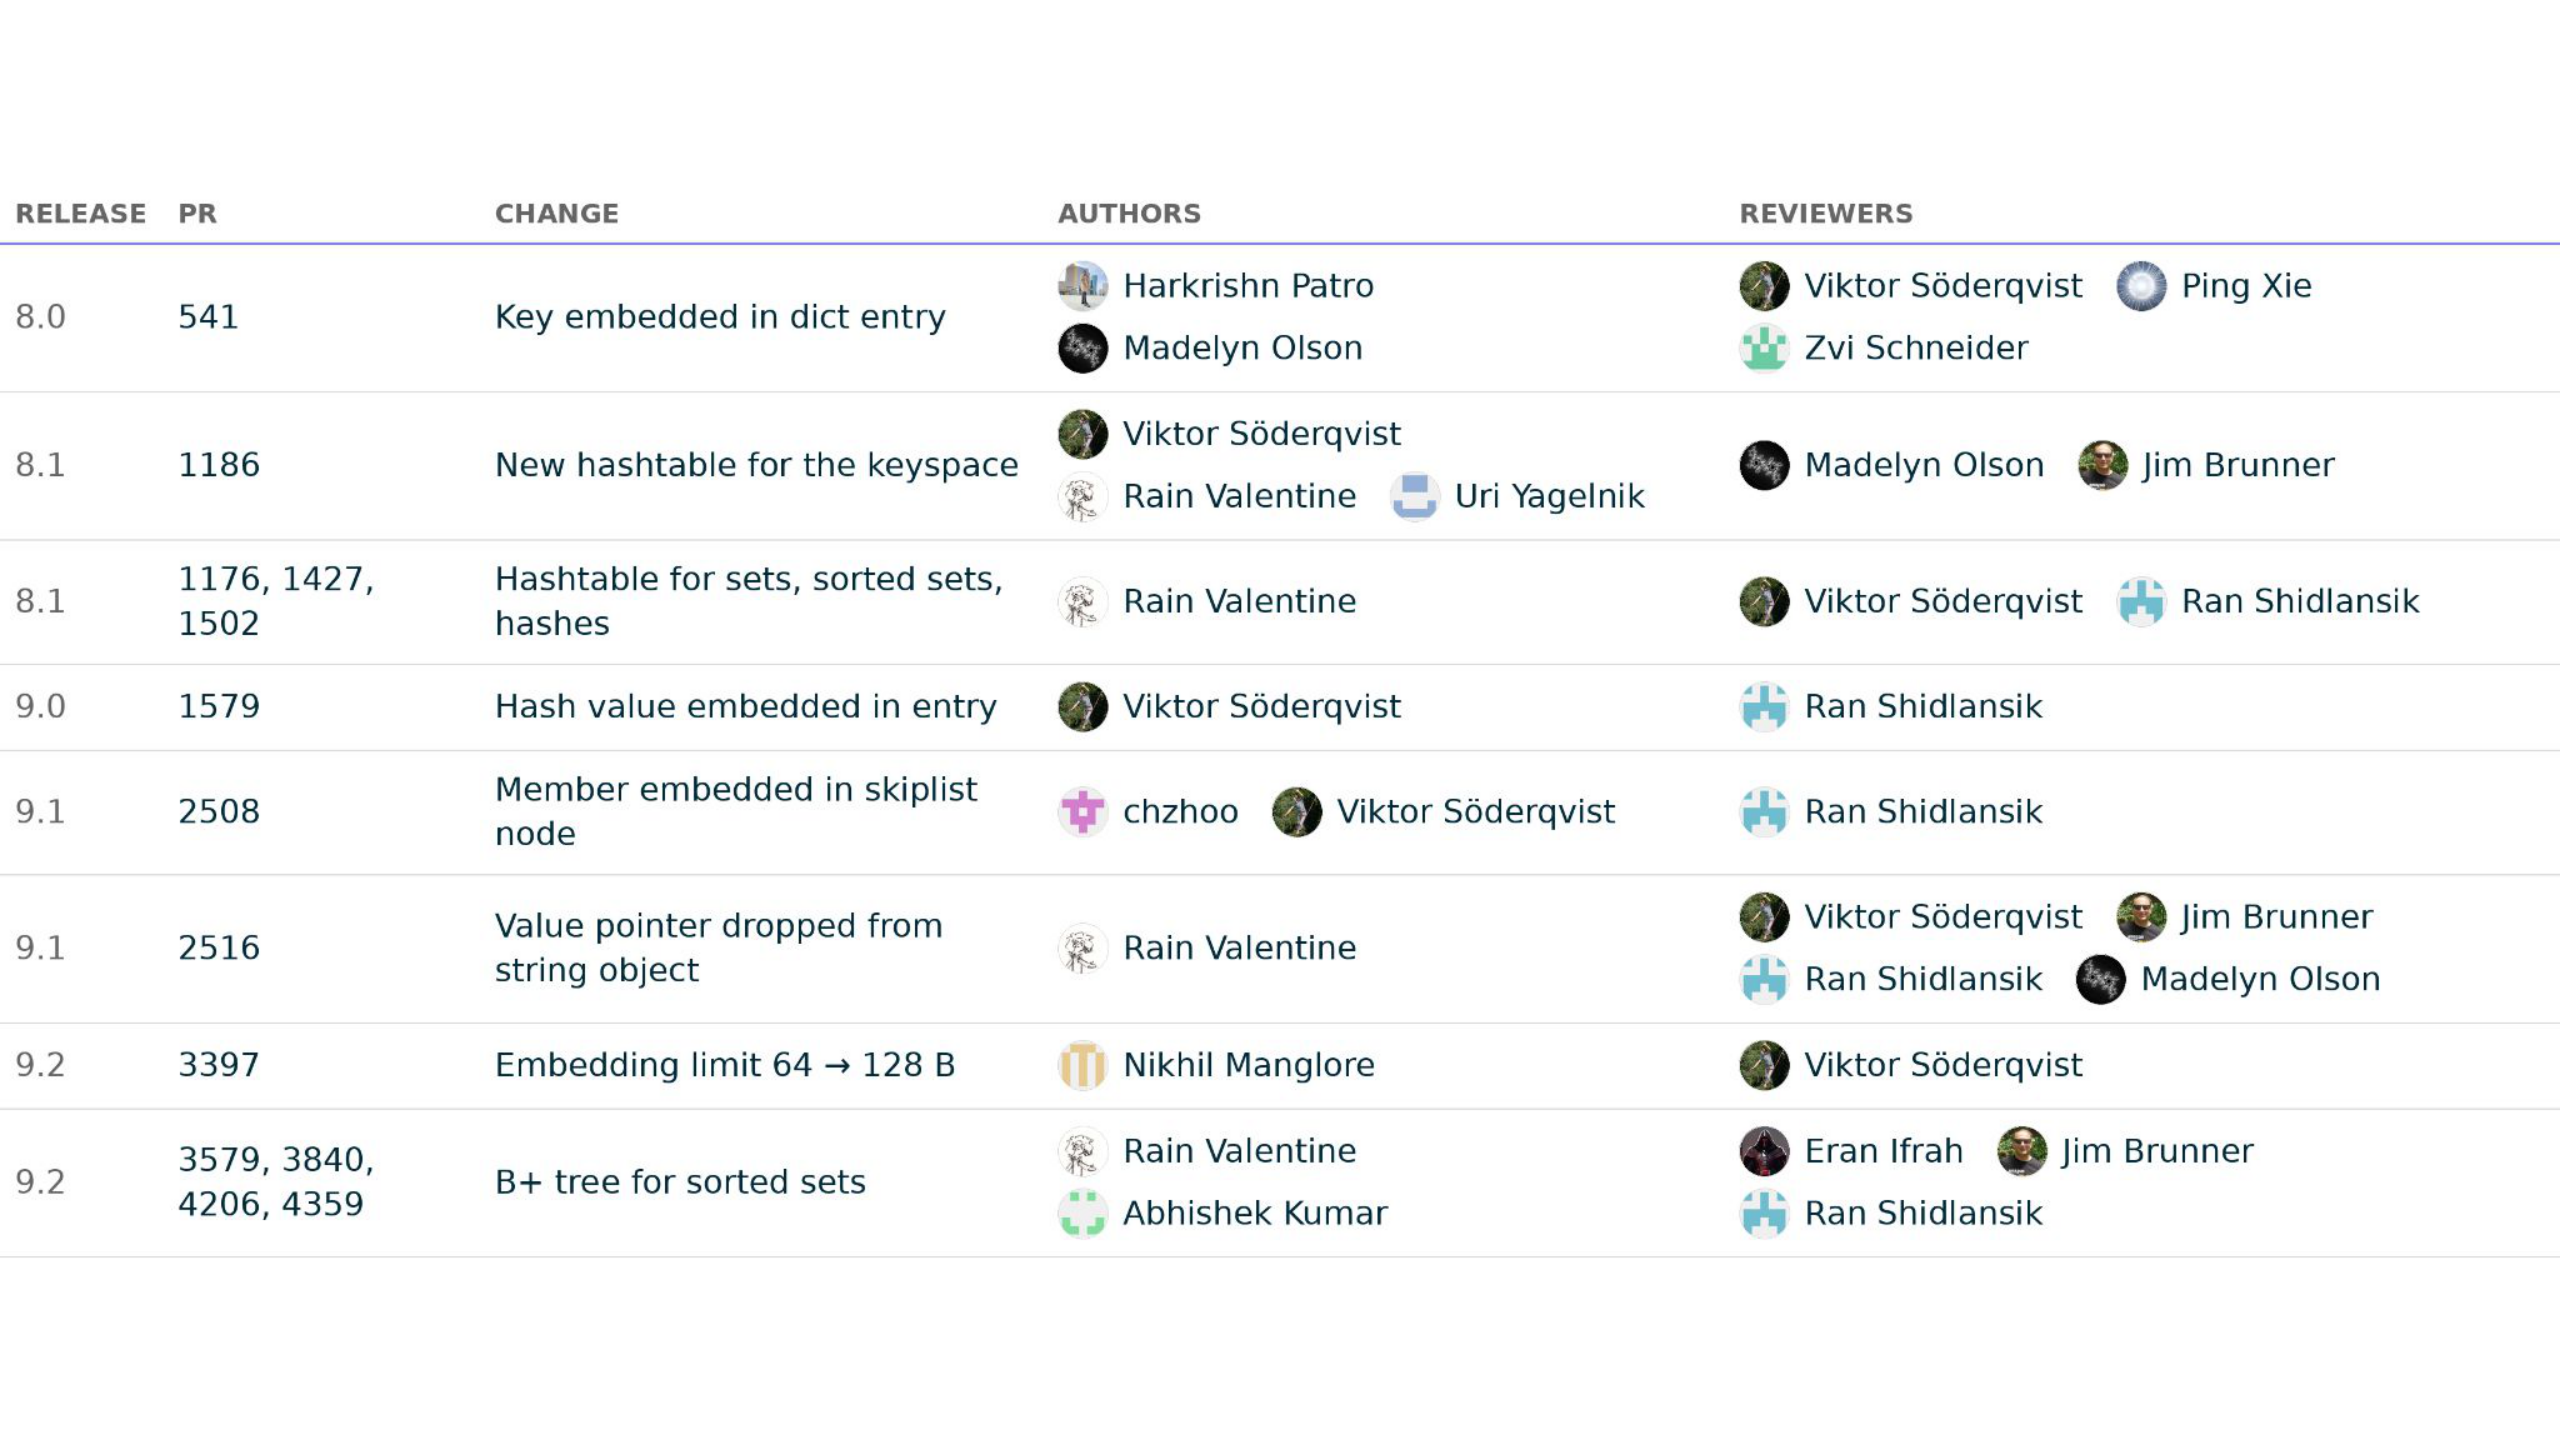
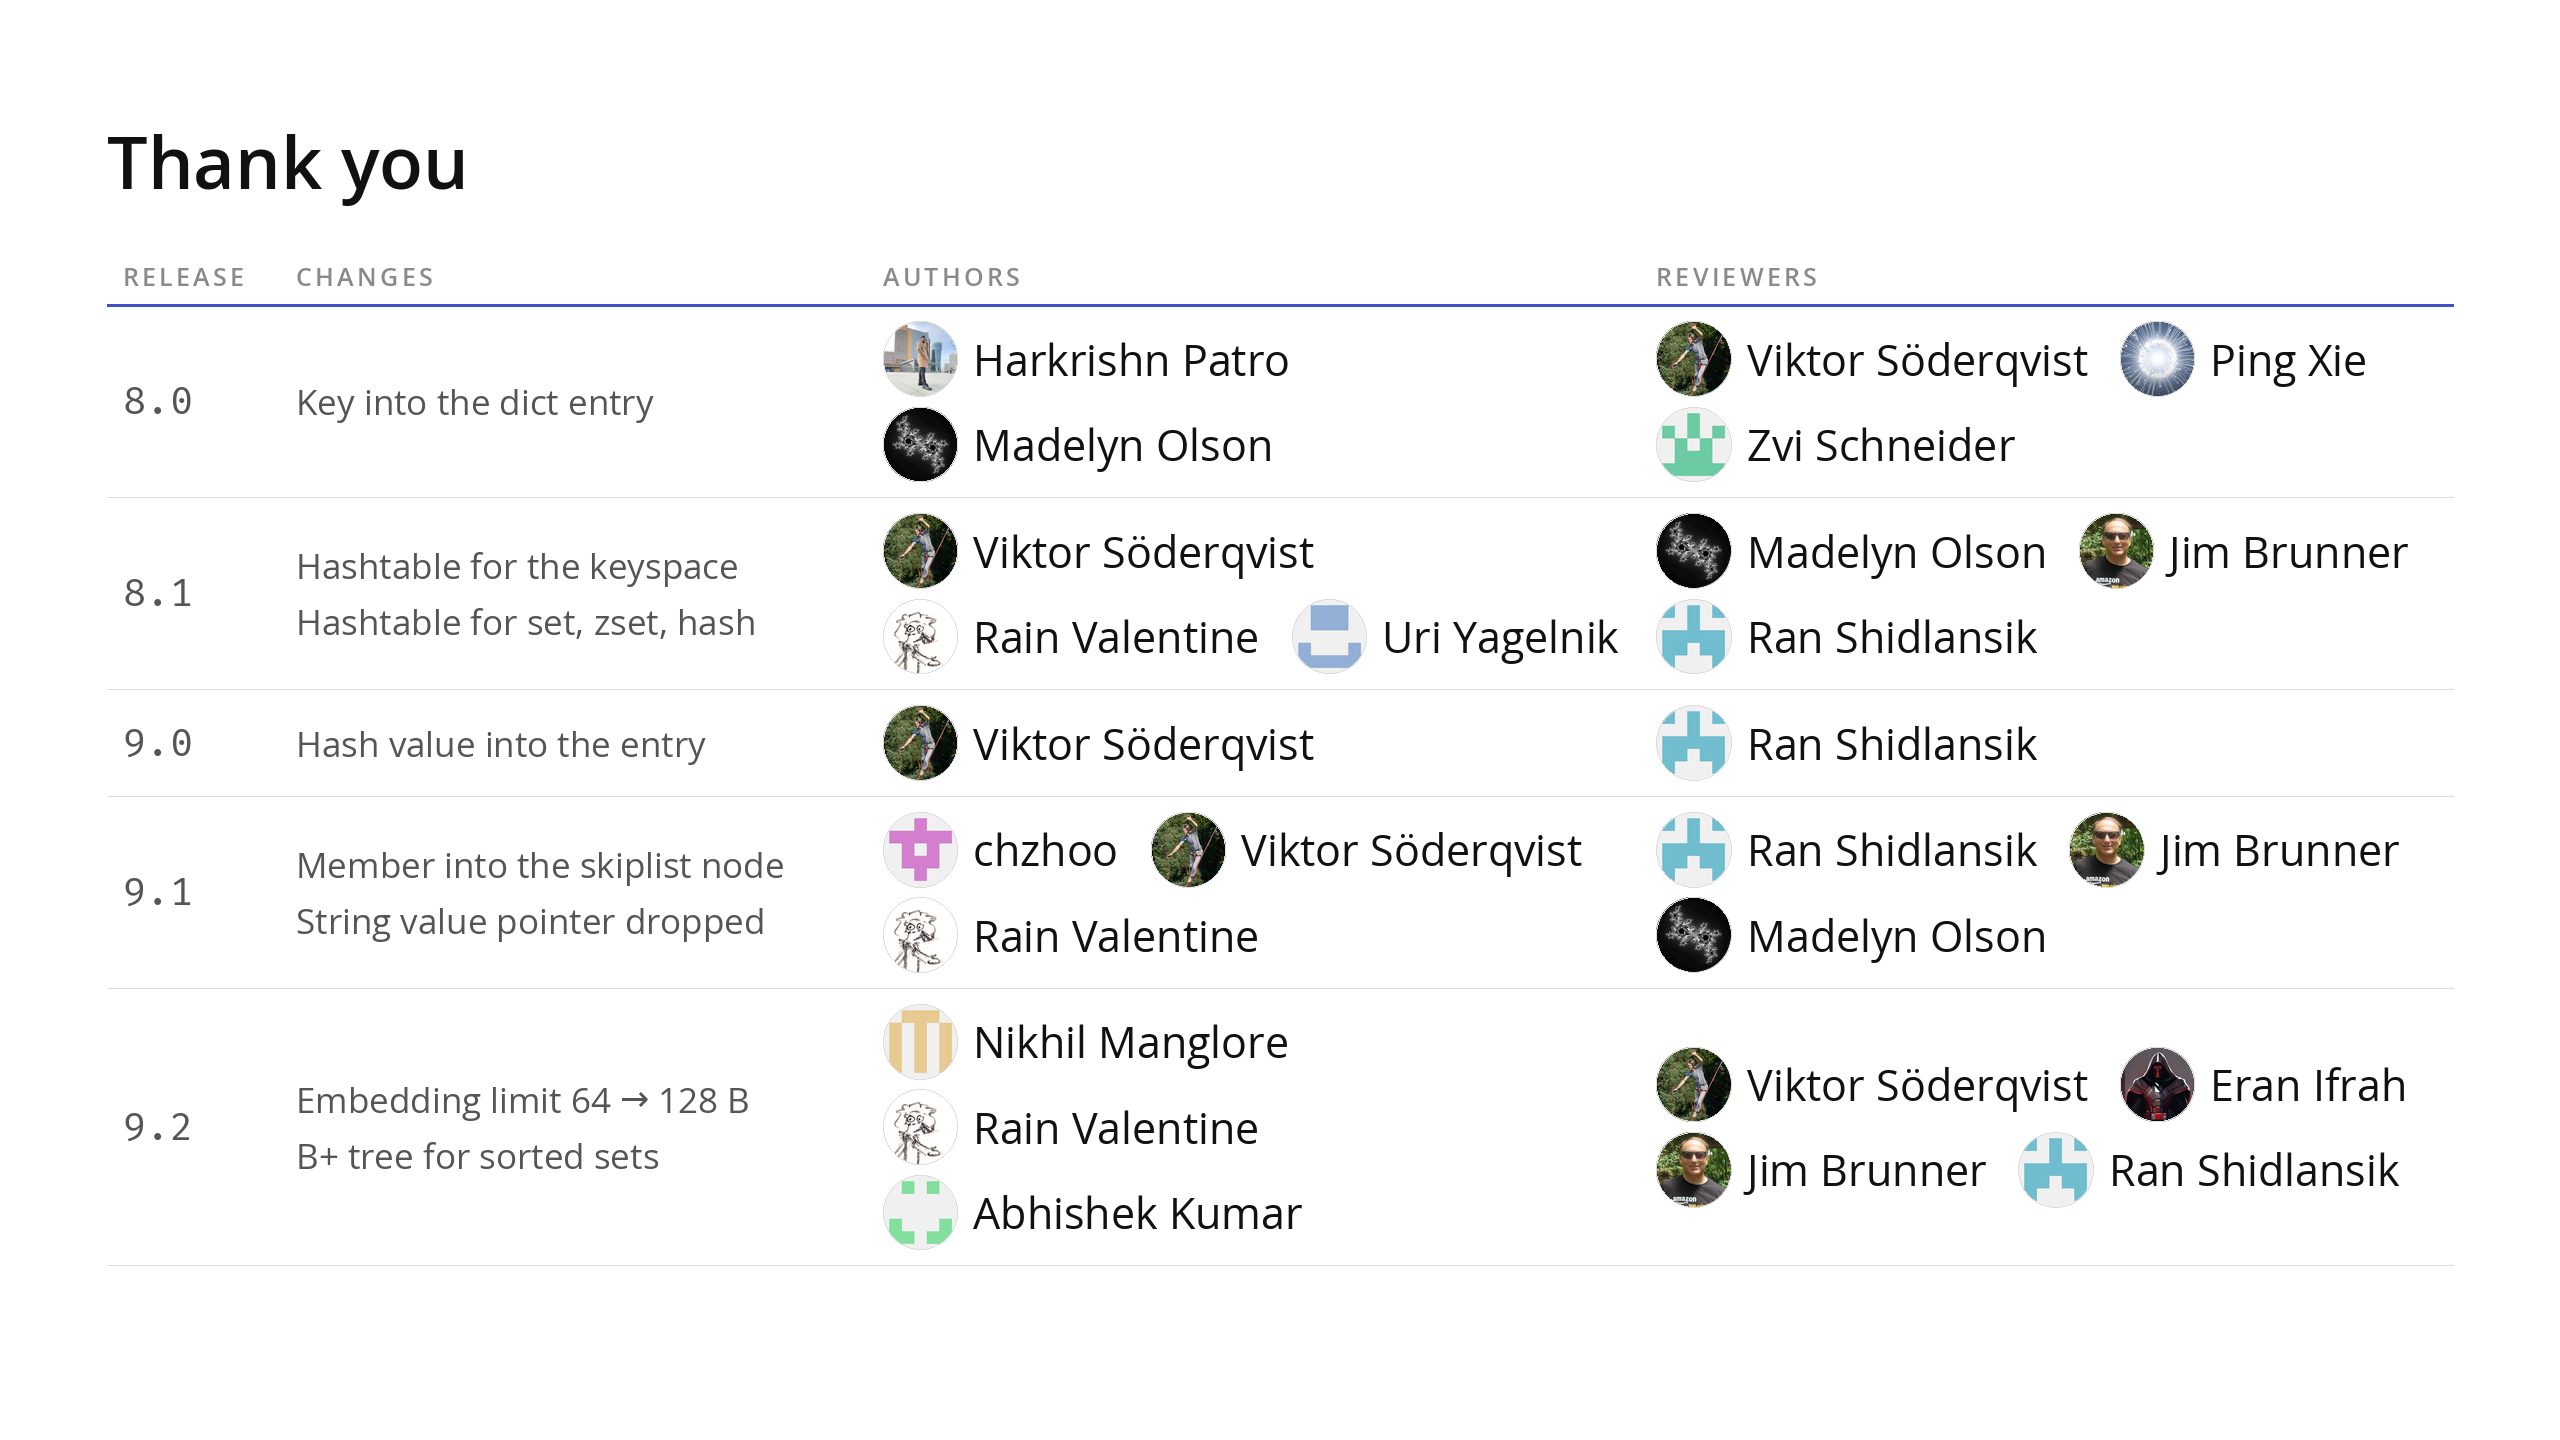
Credits slide generated: figures/credits.py -> assets/credits.png, one row per release
Replaces the pasted DejaVu Sans table with a render in the deck's own frame: 'Thank you' at the
title position, Open Sans for names and the change labels, Fira Mono for the release numbers,
GitHub avatars (figures/avatars/) beside each name. One row per release (8.0, 8.1, 9.0, 9.1,
9.2) with that release's changes stacked in grey and names deduplicated across its PRs; the PR
numbers are not shown (they were on the figure slides, nobody looks one up from a slide). Names
32 px, avatars 56 px on the 2560 slide, 80 px side margins. MODE='change' in credits.py gives one
row per PR instead. figures/build.sh writes assets/credits.png before build_deck.py runs.

Ownership note: AGENTS.md listed assets/credits.png as Rain's finished PNG; it is now generated
from figures/credits.py (rows still Rain's, in ROWS/SHORT). Supersedes PR 18, which targeted the
retired makeover/ layout.

diff --git a/figures/credits.py b/figures/credits.py
@@ -1,0 +1,208 @@
+"""The credits slide (s022): one row per release, the memory-saving changes stacked, GitHub avatars beside
+the authors and reviewers. Writes assets/credits.png, which slides.py places with static('022', ...).
+
+Same frame as build_deck.py's slides: 1920x1080 design coordinates rendered at 2560x1440, Open Sans from
+fonts/opensans/, the 'Thank you' header where the other slides put their title, the deck's
+ink/grey/muted/accent palette. Release numbers are Fira Mono (fonts/firamono/), the deck's face for
+code-like tokens; everything else is Open Sans. Avatars live in figures/avatars/. Rows are per PR
+(ROWS; evidence per name in the talk workspace's CREDITS.md) and merged per release for display
+(MODE='release'); MODE='change' keeps one row per PR.
+
+Run: figures/build.sh (or: python3 figures/credits.py [out.png]).
+"""
+from pathlib import Path
+from PIL import Image, ImageDraw, ImageFont
+
+HERE = Path(__file__).parent
+FONTS = HERE.parent / 'fonts'
+AV = HERE / 'avatars'
+OUT = HERE.parent / 'assets/credits.png'
+
+S = 2560 / 1920
+W, H = 2560, 1440
+INK, GREY, MUTED, ACCENT, RULE = '#111111', '#555555', '#8a8a8a', '#3F51C8', '#dddddd'
+
+
+def P(v): return round(v * S)
+def sans(w, size): return ImageFont.truetype(str(FONTS / f'opensans/OpenSans-{w}.ttf'), P(size))
+def mono(w, size): return ImageFont.truetype(str(FONTS / f'firamono/FiraMono-{w}.ttf'), P(size))
+
+
+PEOPLE = {
+    'Harkrishn Patro': 'hpatro', 'Madelyn Olson': 'madolson', 'Viktor Söderqvist': 'zuiderkwast',
+    'Rain Valentine': 'rainsupreme', 'Uri Yagelnik': 'uriyage', 'Ran Shidlansik': 'ranshid',
+    'chzhoo': 'chzhoo', 'Nikhil Manglore': 'Nikhil-Manglore', 'Abhishek Kumar': 'dubey02',
+    'Eran Ifrah': 'eifrah-aws', 'Jim Brunner': 'JimB123', 'Ping Xie': 'PingXie',
+    'Zvi Schneider': 'zvi-code',
+}
+
+ROWS = [
+    ('8.0', ['541'], 'Key embedded in dict entry',
+     ['Harkrishn Patro', 'Madelyn Olson'], ['Viktor Söderqvist', 'Ping Xie', 'Zvi Schneider']),
+    ('8.1', ['1186'], 'New hashtable for the keyspace',
+     ['Viktor Söderqvist', 'Rain Valentine', 'Uri Yagelnik'], ['Madelyn Olson', 'Jim Brunner']),
+    ('8.1', ['1176', '1427', '1502'], 'Hashtable for sets, sorted sets, hashes',
+     ['Rain Valentine'], ['Viktor Söderqvist', 'Ran Shidlansik']),
+    ('9.0', ['1579'], 'Hash value embedded in entry',
+     ['Viktor Söderqvist'], ['Ran Shidlansik']),
+    ('9.1', ['2508'], 'Member embedded in skiplist node',
+     ['chzhoo', 'Viktor Söderqvist'], ['Ran Shidlansik']),
+    ('9.1', ['2516'], 'Value pointer dropped from string object',
+     ['Rain Valentine'], ['Viktor Söderqvist', 'Jim Brunner', 'Ran Shidlansik', 'Madelyn Olson']),
+    ('9.2', ['3397'], 'Embedding limit 64 \u2192 128 B',
+     ['Nikhil Manglore'], ['Viktor Söderqvist']),
+    ('9.2', ['3579', '3840', '4206', '4359'], 'B+ tree for sorted sets',
+     ['Rain Valentine', 'Abhishek Kumar'], ['Eran Ifrah', 'Jim Brunner', 'Ran Shidlansik']),
+]
+
+SHORT = {  # change column, kept to a few words: the PR numbers appeared on the figure slides, the change is said aloud
+    '541': 'Key into the dict entry', '1186': 'Hashtable for the keyspace', '1176': 'Hashtable for set, zset, hash',
+    '1579': 'Hash value into the entry', '2508': 'Member into the skiplist node', '2516': 'String value pointer dropped',
+    '3397': 'Embedding limit 64 \u2192 128 B', '3579': 'B+ tree for sorted sets',
+}
+
+# design-unit geometry. MODE 'change': one row per contribution, Release | Change | Authors | Reviewers.
+# MODE 'release': one row per release, the changes stacked, names deduplicated across that release's PRs.
+# The PR numbers are not shown in either: nobody looks one up from a slide, and they were on the figure slides.
+MODE = 'release'
+X0, X1 = 80, 1840                       # side margins (the frame's own are 120)
+TABLE_TOP = 185
+if MODE == 'change':
+    COLS = [('Release', 130), ('Change', 400), ('Authors', 600), ('Reviewers', 630)]
+    BODY, NUM, AVATAR, TEXT_LINE_H = 30, 27, 46, 40
+else:
+    COLS = [('Release', 130), ('Changes', 440), ('Authors', 580), ('Reviewers', 610)]
+    BODY, NUM, AVATAR, TEXT_LINE_H = 32, 29, 56, 42
+assert sum(w for _, w in COLS) == X1 - X0
+PAD_X = 12                              # cell text inset
+HEAD = 19                               # column labels, SemiBold, tracked, muted
+CHIP_GAP_X, CHIP_GAP_Y = 24, 8
+CELL_PAD_Y = 12
+CHANGE_PX = 26                          # the change column, a notch under the names
+
+
+def display_rows():
+    """(release, [change lines], authors, reviewers) per table row."""
+    if MODE == 'change':
+        return [(rel, [SHORT[prs[0]]], a, r) for rel, prs, _, a, r in ROWS]
+    out = {}
+    for rel, prs, _, a, r in ROWS:
+        rel_, ch, aa, rr = out.setdefault(rel, (rel, [], [], []))
+        ch.append(SHORT[prs[0]])
+        for n in a:
+            if n not in aa: aa.append(n)
+        for n in r:
+            if n not in rr and n not in aa: rr.append(n)
+    return list(out.values())
+
+
+f_body, f_name, f_num, f_head = sans('Regular', CHANGE_PX), sans('Regular', BODY), mono('Regular', NUM), sans('SemiBold', HEAD)
+# Open Sans has no U+2192; borrow the arrow from DejaVu Sans at the same size (as makeover.py does)
+f_arrow = ImageFont.truetype('/usr/share/fonts/dejavu-sans-fonts/DejaVuSans.ttf', P(CHANGE_PX))
+
+
+def tw(font, text): return font.getlength(text) / S
+
+
+def wrap(tokens, width, font, sep=' '):
+    lines, cur = [], ''
+    for t in tokens:
+        cand = t if not cur else cur + sep + t
+        if cur and tw(font, cand) > width:
+            lines.append(cur); cur = t
+        else:
+            cur = cand
+    return lines + [cur]
+
+
+def chip_w(name): return AVATAR + 12 + tw(f_name, name)
+
+
+def layout_chips(names, width):
+    lines, cur, cur_w = [], [], 0.0
+    for n in names:
+        w = chip_w(n)
+        add = w if not cur else CHIP_GAP_X + w
+        if cur and cur_w + add > width:
+            lines.append(cur); cur, cur_w = [n], w
+        else:
+            cur.append(n); cur_w += add
+    return lines + [cur]
+
+
+_av = {}
+
+
+def avatar(handle):
+    if handle not in _av:
+        d = P(AVATAR)
+        im = Image.open(AV / f'{handle}.png').convert('RGB').resize((d * 4, d * 4), Image.LANCZOS)
+        mask = Image.new('L', (d * 4, d * 4), 0)
+        ImageDraw.Draw(mask).ellipse((0, 0, d * 4 - 1, d * 4 - 1), fill=255)
+        _av[handle] = (im.resize((d, d), Image.LANCZOS), mask.resize((d, d), Image.LANCZOS))
+    return _av[handle]
+
+
+def draw_text(d, x, y, s, font, fill):
+    """Left-middle anchored text; the arrow glyph comes from DejaVu."""
+    for i, part in enumerate(s.split('\u2192')):
+        d.text((P(x), P(y)), part, font=font, fill=fill, anchor='lm'); x += tw(font, part)
+        if i < s.count('\u2192'):
+            d.text((P(x), P(y)), '\u2192', font=f_arrow, fill=fill, anchor='lm'); x += tw(f_arrow, '\u2192')
+
+
+def row_plan(row):
+    rel, changes, authors, reviewers = row
+    inner = [w - 2 * PAD_X for _, w in COLS]
+    ch_l = [ln for c in changes for ln in wrap(c.split(' '), inner[1], f_body)]
+    a_l = layout_chips(authors, inner[2])
+    r_l = layout_chips(reviewers, inner[3])
+    h_text = len(ch_l) * TEXT_LINE_H
+    h_chip = max(len(a_l), len(r_l)) * (AVATAR + CHIP_GAP_Y) - CHIP_GAP_Y
+    return ch_l, a_l, r_l, max(h_text, h_chip) + 2 * CELL_PAD_Y
+
+
+def render():
+    im = Image.new('RGB', (W, H), 'white'); d = ImageDraw.Draw(im)
+    d.text((P(X0), P(84)), 'Thank you', font=sans('SemiBold', 54), fill=INK)
+    rows = display_rows()
+    plans = [row_plan(r) for r in rows]
+    head_h = 44
+    total = head_h + sum(p[-1] for p in plans)
+    assert TABLE_TOP + total <= 1060, f'table too tall: {TABLE_TOP + total}'
+    xs = [X0]
+    for _, w in COLS:
+        xs.append(xs[-1] + w)
+    y = TABLE_TOP
+    for (label, _), x in zip(COLS, xs):
+        cx = x + PAD_X
+        for ch in label.upper():                                  # tracked small caps, as the section eyebrows
+            d.text((P(cx), P(y + head_h / 2)), ch, font=f_head, fill=MUTED, anchor='lm'); cx += tw(f_head, ch) + 2.5
+    y += head_h
+    d.line((P(X0), P(y), P(X1), P(y)), fill=ACCENT, width=P(2))
+    for (rel, changes, authors, reviewers), (ch_l, a_l, r_l, h) in zip(rows, plans):
+        def block(lines, col, font, fill):
+            y0 = y + h / 2 - len(lines) * TEXT_LINE_H / 2
+            for i, ln in enumerate(lines):
+                draw_text(d, xs[col] + PAD_X, y0 + (i + 0.5) * TEXT_LINE_H, ln, font, fill)
+        block([rel], 0, f_num, GREY)
+        block(ch_l, 1, f_body, GREY if MODE == 'release' else INK)
+        for col, lines in ((2, a_l), (3, r_l)):
+            y0 = y + h / 2 - (len(lines) * (AVATAR + CHIP_GAP_Y) - CHIP_GAP_Y) / 2
+            for i, ln in enumerate(lines):
+                x = xs[col] + PAD_X; yy = y0 + i * (AVATAR + CHIP_GAP_Y)
+                for name in ln:
+                    av, mask = avatar(PEOPLE[name])
+                    im.paste(av, (P(x), P(yy)), mask)
+                    d.ellipse((P(x), P(yy), P(x + AVATAR), P(yy + AVATAR)), outline=RULE, width=1)
+                    draw_text(d, x + AVATAR + 12, yy + AVATAR / 2, name, f_name, INK)
+                    x += chip_w(name) + CHIP_GAP_X
+        y += h
+        d.line((P(X0), P(y), P(X1), P(y)), fill=RULE, width=P(1))
+    return im
+
+
+if __name__ == '__main__':
+    import sys
+    out = Path(sys.argv[1]) if len(sys.argv) > 1 else OUT
+    render().save(out); print(out)

diff --git a/AGENTS.md b/AGENTS.md
@@ -27,7 +27,7 @@ keep it true; edit it when the contract changes.
 | slide list, order and every word on a slide | Rain | `slides.py` (she edits it, or tells one of us what to change) |
 | the slide renderer | Rimuru | `build_deck.py` -> `prague-deck/slides/` |
 | figures and charts | Ranma | `figures/` (generators, `lib/fdbars.py`, `data/*.csv`, `out/*.svg`); the `figure(...)` lines in `slides.py` that place them |
-| credits table | Rain | `assets/credits.png` (a finished 2560x1440 PNG, used as is) |
+| credits table | Ranma (rows: Rain) | `figures/credits.py` + `figures/avatars/` -> `assets/credits.png`, placed by `static('022', ...)` |
 | PowerPoint export | Rimuru | `export_pptx.py` -> `prague-deck.pptx` (release asset, not committed) |
 
 **`slides.py` is the deck.** There is no Google Slides deck behind it any more; `source/talk.pdf` is the last
